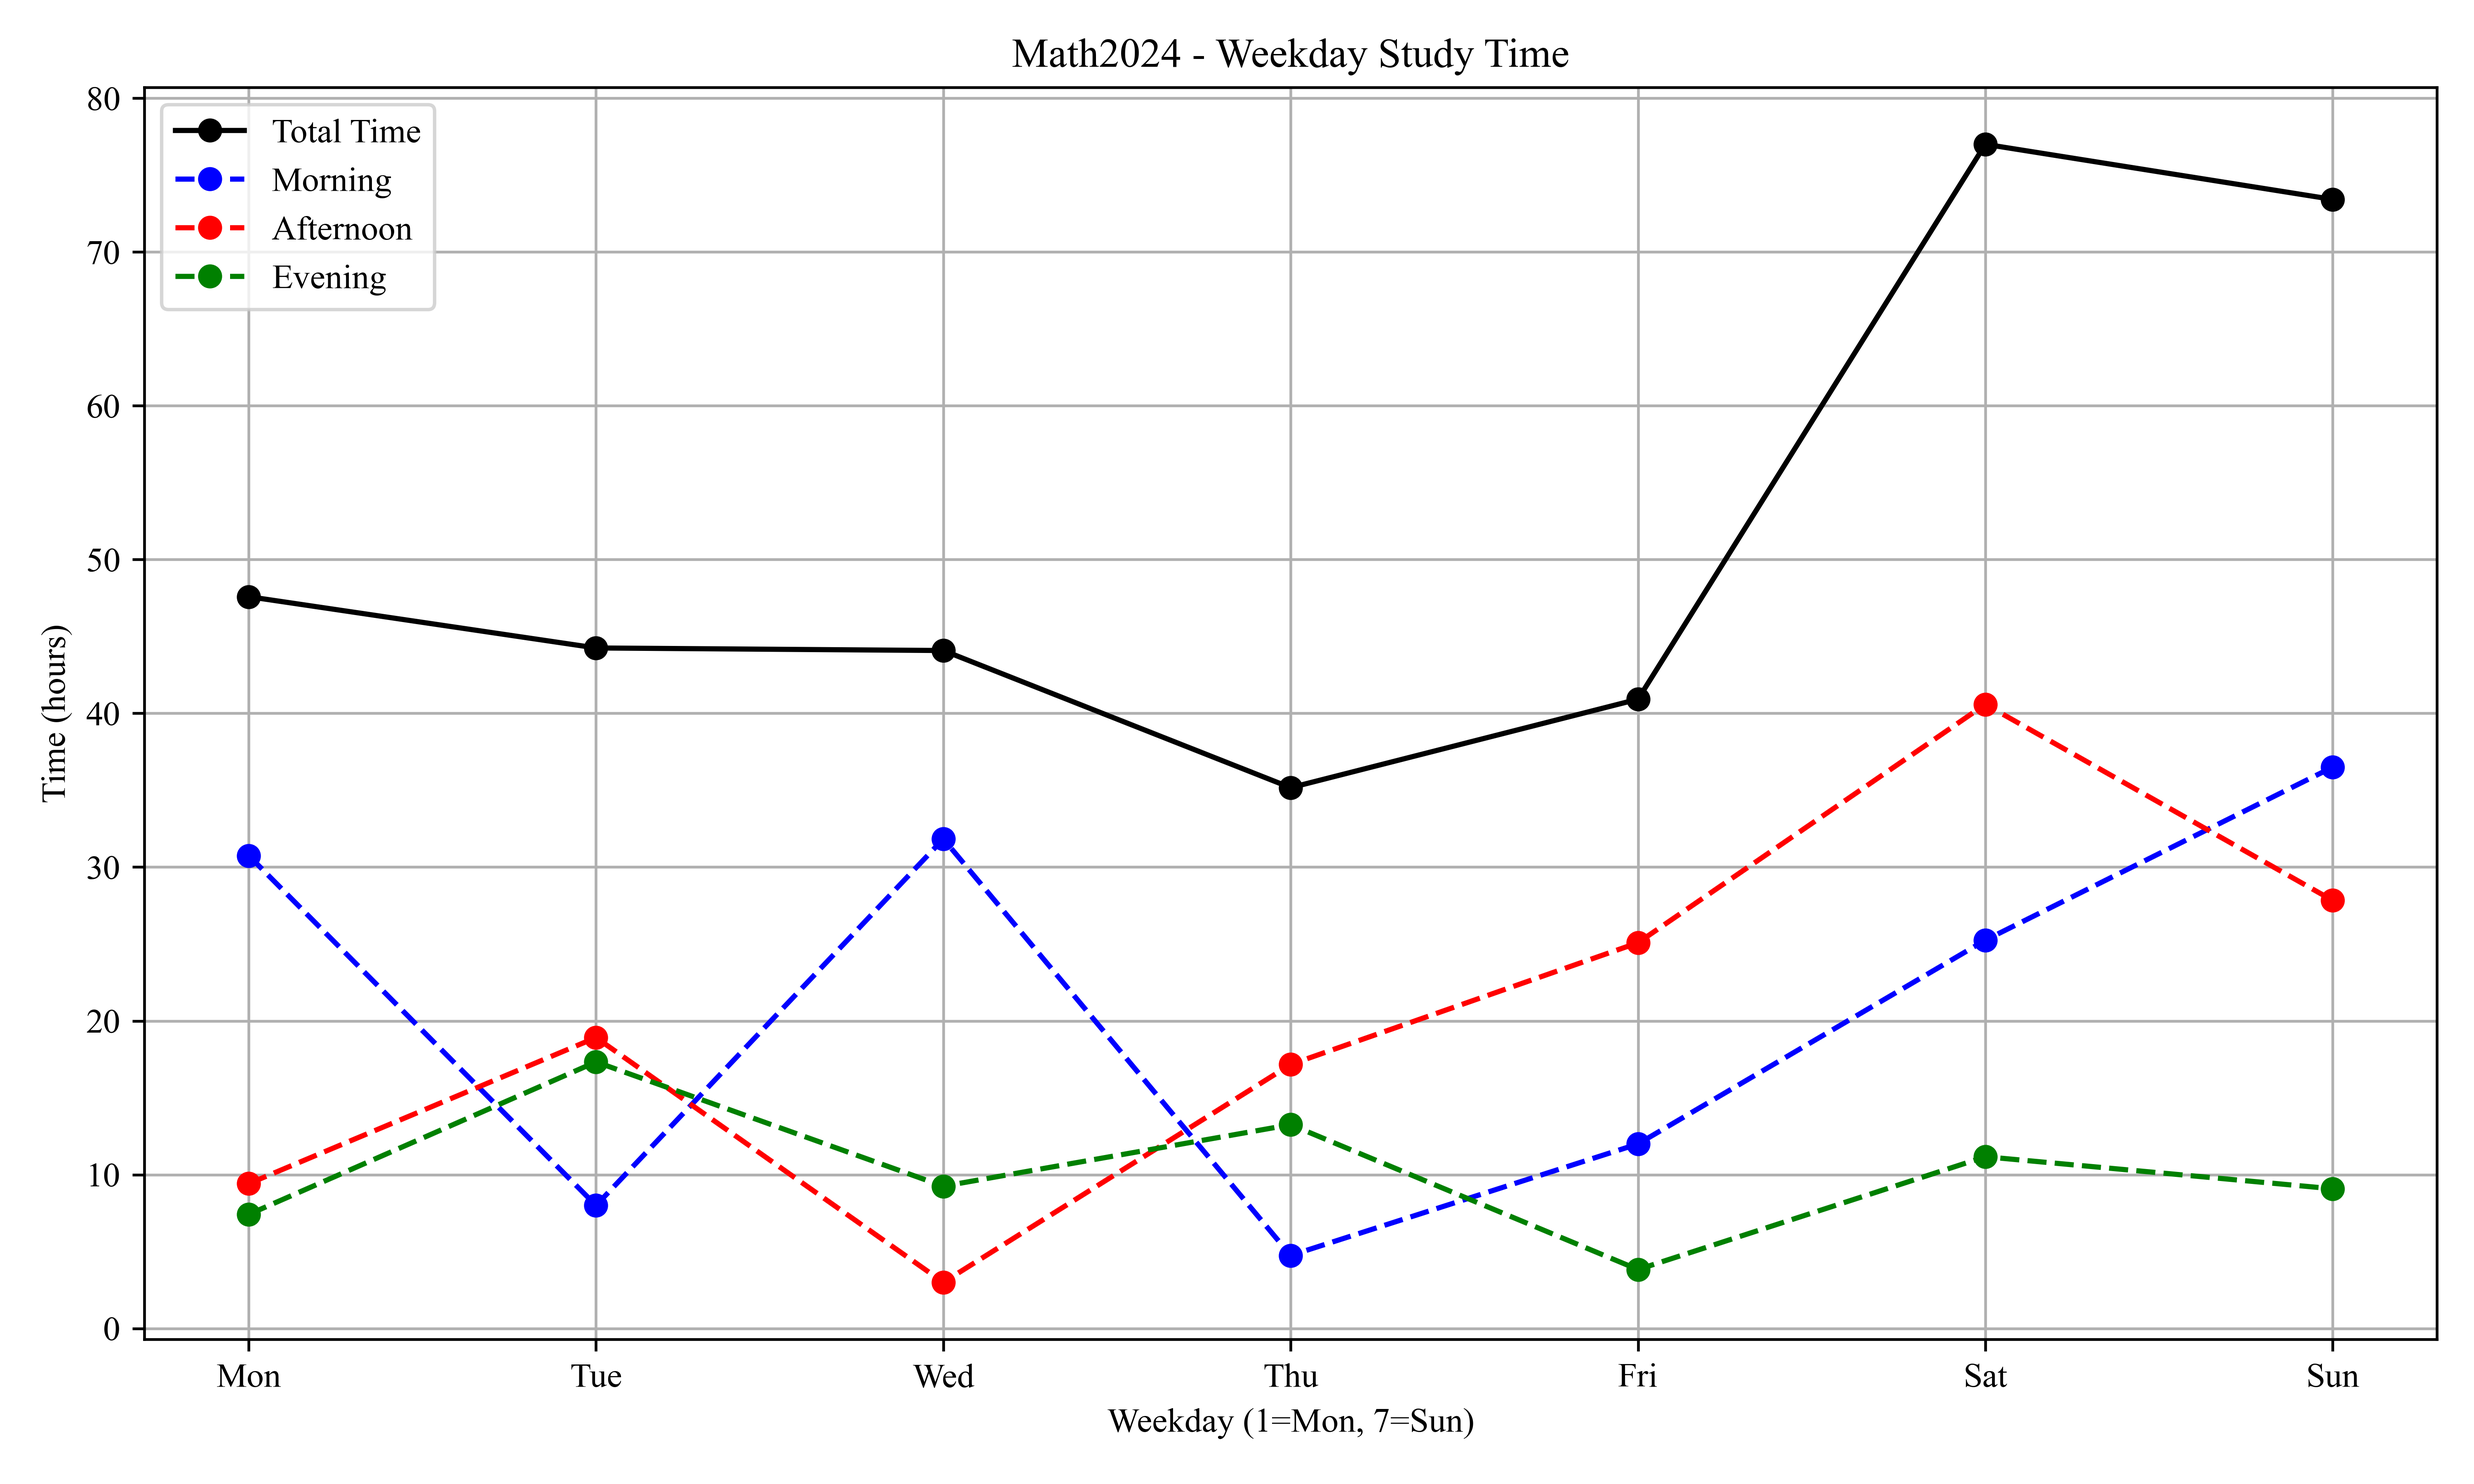
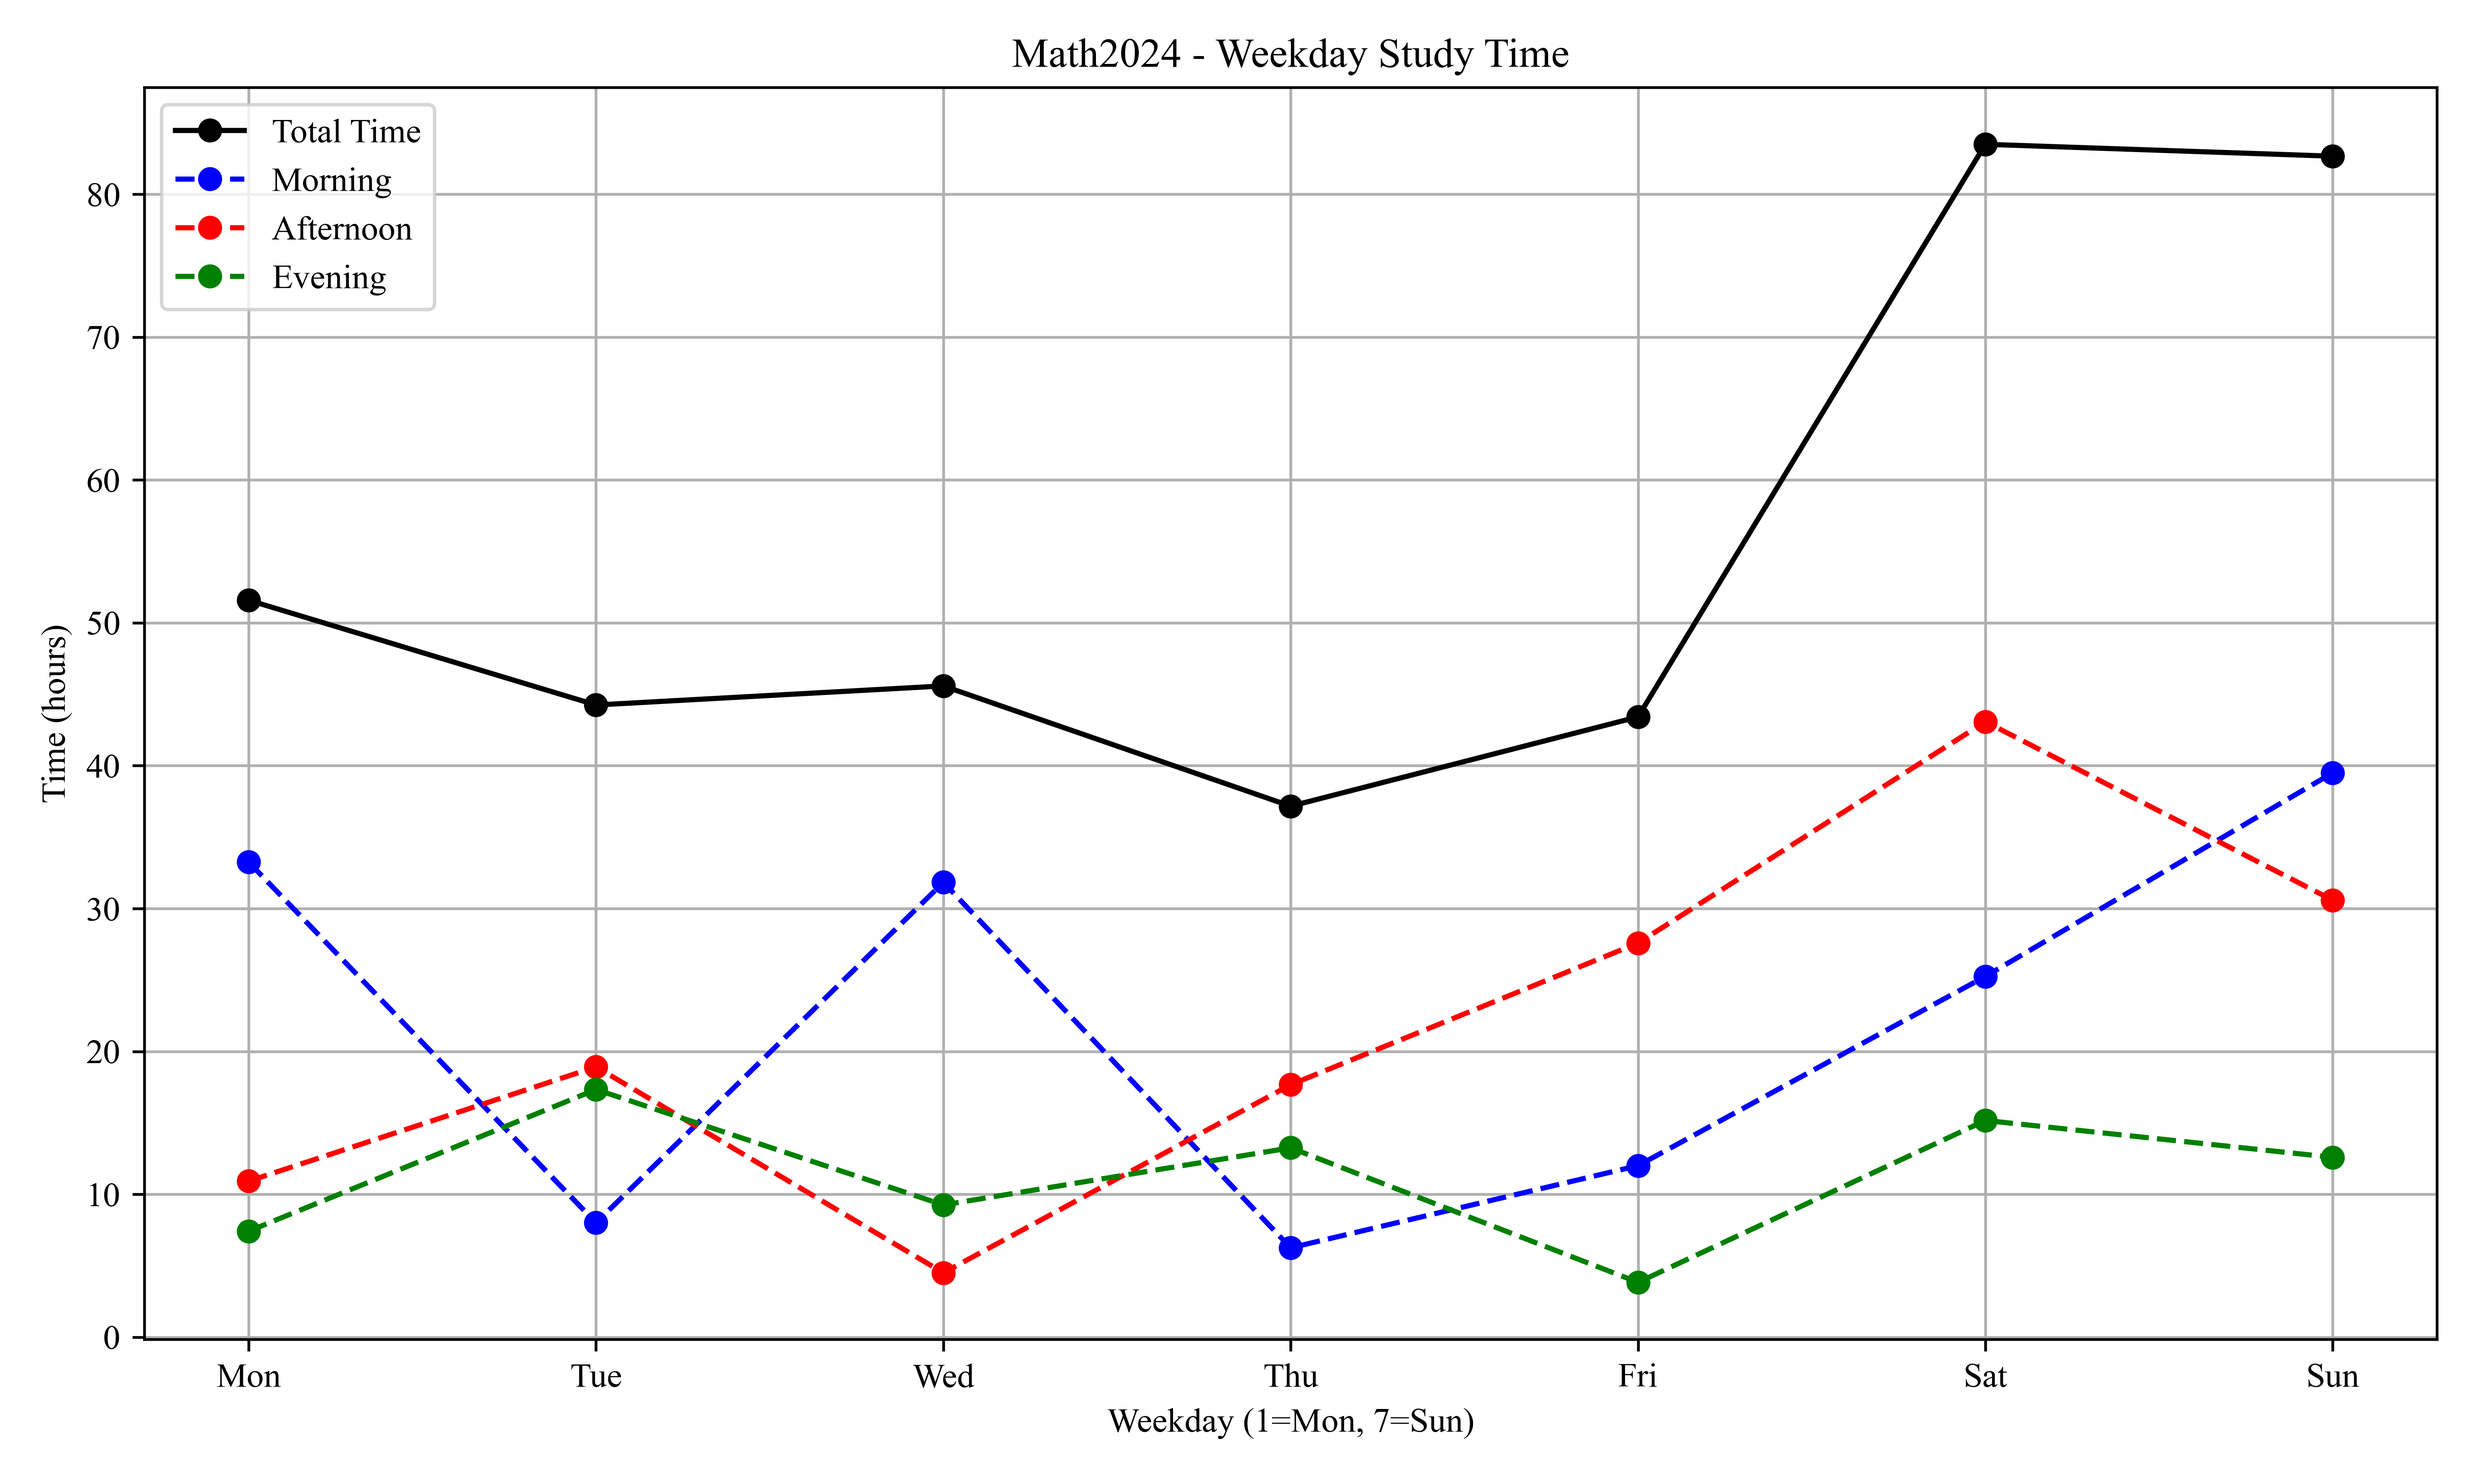
更新数据

diff --git a/data/规划.md b/data/规划.md
@@ -47,23 +47,23 @@
 ---
 
 寒假规划：
-- 数学：张宇36讲+880一起写。
+- 数学：张宇36讲+880一起写，复习全书提高篇，余炳森1000。
 - 英语：背单词正常进行，阅读新东方基础100篇每日2篇。
-- 408：顺序：计网->数据结构->操作系统->计组。完成计网和数据结构。
-- 非考研：重看鸢尾花第4~7本
+- 408：顺序：计网->数据结构->操作系统->计组。完成王道计网和数据结构。
+- 非考研：重看鸢尾花第4~7本，修订笔记。
 
 ---
 
 开学-3月：
-- 数学：张宇36讲+880如果没写完就补完。杨超三大计算高数+线代。李艳芳900。
-- 408: 完成剩下部分。
+- 数学：杨超三大计算高数+线代。李艳芳900。
+- 408: 王道操作系统，计组
 - 英语：背单词，华研、来川基础。
 - 非考研：重学机器学习，参考[白板笔记](https://www.yuque.com/bystander-wg876/yc5f72)
 
 ---
 
 4月：
-- 数学：张宇1000,。李开丁概率论。
+- 数学：张宇1000。李开丁概率论。
 - 408：不知道。
 - 英语：背单词，华研基础阅读150。
 
@@ -77,7 +77,7 @@
 ---
 
 6月：
-- 数学：崔原铭手写习题集3本，余炳森1000
+- 数学：崔原铭手写习题集3本
 - 408：不知道。
 - 英语：背单词，新东方完型阅读B。
 

diff --git a/data/学习时长.md b/data/学习时长.md
@@ -107,7 +107,12 @@
 | 12.22 | 9:05-11:05, 14:45-17:00 | |
 | 12.23 | 8:30-11:30 | |
 | 12.24 | 9:45-11:30, 14:00-17:00, 17:40-20:10 | |
-
+| 12.25 | 14:00-15:30 | |
+| 12.26 | 9:45-11:15, 15:00-15:30 | |
+| 12.27 | 14:20-16:50 | |
+| 12.28 | 14:30-17:00, 17:30-21:30 | |
+| 12.29 | 8:40-11:40, 14:15-17:00, 17:30-21:00 | |
+| 12.30 | 9:00-11:30, 14:00-15:30 | |
 
 
 
